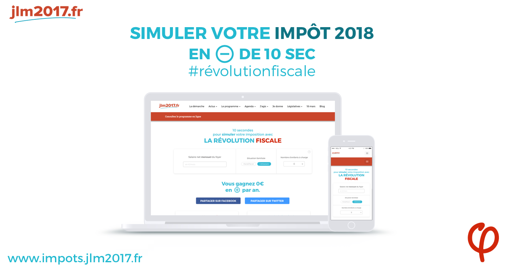
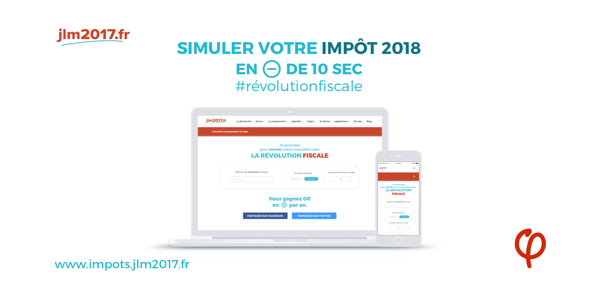
fix twitter visu

Changed region(s): [[0.0, 0.0, 0.7411, 0.9742], [0.8597, 0.738, 1.0, 0.9742], [0.4743, 0.5609, 0.5929, 0.6199]]

diff --git a/impotsoumis/src/views/designed/DesignedApp.jsx b/impotsoumis/src/views/designed/DesignedApp.jsx
@@ -157,7 +157,7 @@ class DesignedApp extends Component {
         <div className="version">
           Version
           <h1>
-            0.<strong>35</strong>
+            0.<strong>36</strong>
           </h1>
         </div>
       </div>
